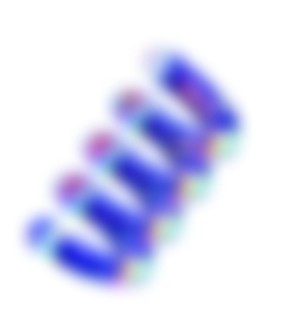
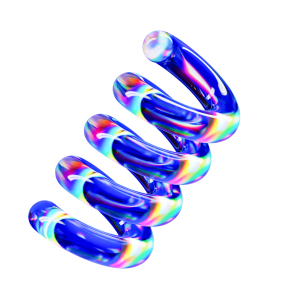
✨ Call to action section.

diff --git a/assets/Zeus-NFT/style.scss b/assets/Zeus-NFT/style.scss
@@ -73,11 +73,13 @@ main {
         &#obj2 {
           top: 90px;
           right: 96px;
+          filter: blur(13.5px);
         }
 
         &#obj3 {
           bottom: -40px;
           left: -115px;
+          filter: blur(13.5px);
         }
 
         &#obj4 {
@@ -510,6 +512,88 @@ main {
           }
         }
       }
+    }
+  }
+
+  #call-to-action {
+    display: flex;
+    flex-direction: column;
+    align-items: center;
+
+    background: #FCFAFF;
+    border: 1px solid #D6BCFA;
+    box-shadow: inset 0px 0px 50px #F8E0FA;
+    border-radius: 60px;
+
+    margin: 80px 70px;
+    padding: 6rem 0 5rem;
+
+    .objects {
+      position: absolute;
+
+      img {
+        position: relative;
+        z-index: 1;
+
+        &#obj1 {
+          width: 150px;
+          top: -140px;
+          left: 720px;
+        }
+
+        &#obj2 {
+          width: 90px;
+          top: -165px;
+          right: 325px;
+        }
+
+        &#obj3 {
+          width: 200px;
+          bottom: -80px;
+          left: 410px;
+        }
+
+        &#obj4 {
+          width: 180px;
+          bottom: -85px;
+          right: 745px;
+        }
+      }
+    }
+
+    h2 {
+      font-family: 'Syne', sans-serif;
+      font-weight: 700;
+      font-size: 3rem;
+      line-height: 4rem;
+
+      text-align: center;
+      color: #000000;
+      margin: 0;
+    }
+
+    p {
+      font-weight: 400;
+      font-size: 16px;
+      line-height: 24px;
+      text-align: center;
+      color: #532C59;
+    }
+
+    button {
+      background: #532C59;
+      border-radius: 15px;
+      border: none;
+      cursor: pointer;
+
+      padding: 16px 20px;
+      margin: 16px;
+
+      font-family: 'Syne', sans-serif;
+      font-weight: 700;
+      font-size: 1rem;
+      line-height: 1.25rem;
+      color: #FFFFFF;
     }
   }
 }

diff --git a/pages/Zeus-NFT.vue b/pages/Zeus-NFT.vue
@@ -129,6 +129,18 @@
         </div>
       </div>
     </section>
+    <section id="call-to-action">
+      <div class="objects">
+        <img src="../assets/Zeus-NFT/images/objects/object1.png" alt="Object 1" id="obj1">
+        <img src="../assets/Zeus-NFT/images/objects/object2.png" alt="Object 2" id="obj2">
+        <img src="../assets/Zeus-NFT/images/objects/object3.png" alt="Object 3" id="obj3">
+        <img src="../assets/Zeus-NFT/images/objects/object4.png" alt="Object 4" id="obj4">
+      </div>
+      <h2>Ready to sell your NFTs?</h2>
+      <p>Risus commodo id odio turpis pharetra elementum. Pulvinar porta porta feugiat scelerisque in elit.<br> Morbi
+        rhoncus, tellus, eros consequat magna semper orci a tincidunt. </p>
+      <button>Sell right now</button>
+    </section>
   </main>
 </template>
 
